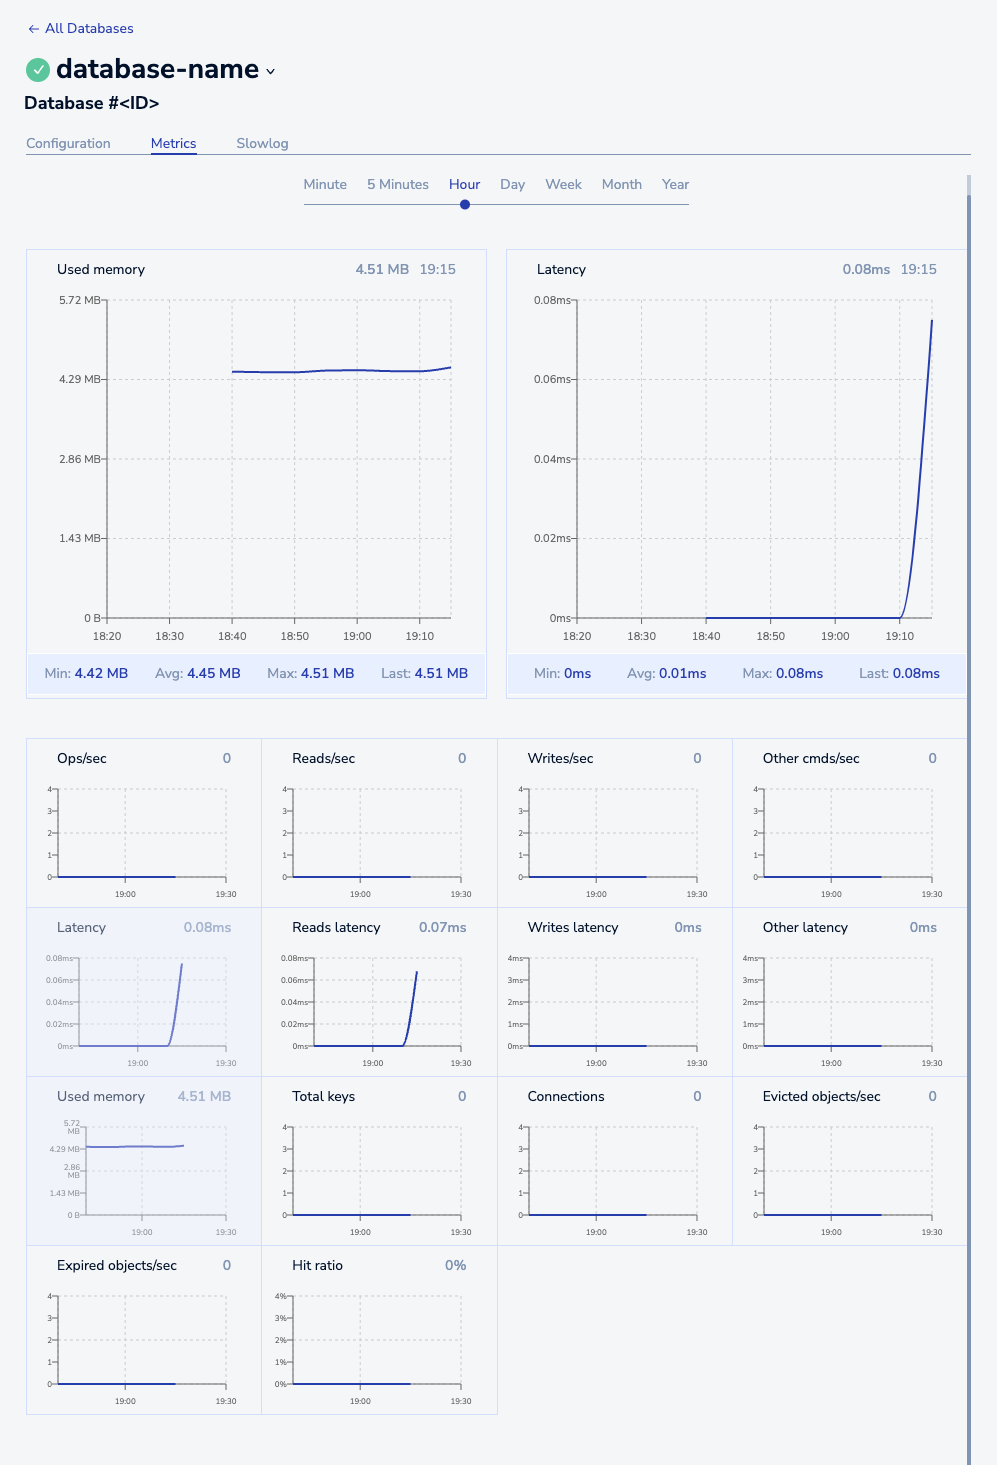
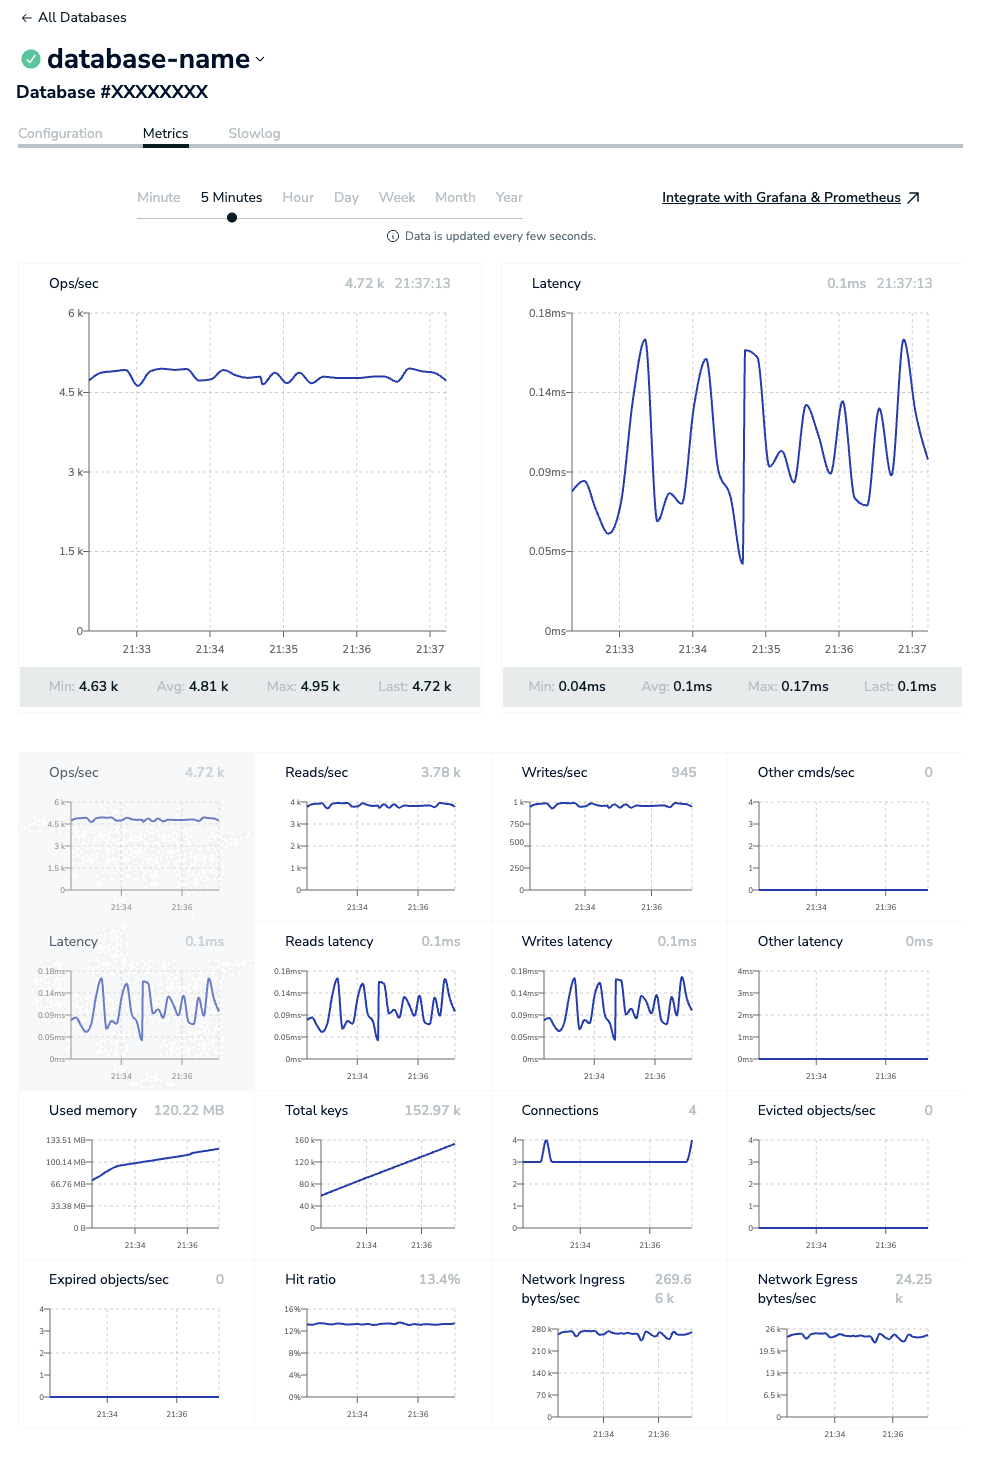
Monitor

diff --git a/content/operate/rc/databases/monitor-performance.md b/content/operate/rc/databases/monitor-performance.md
@@ -34,7 +34,7 @@ When you use the mouse to point to a smaller graph, three things appear:
 - A promotion icon pointing right
 - A summary panel showing the minimum, average, maximum, and most recent values displayed in the graph.
 
-{{<image filename="images/rc/metrics-promote-graphs.png" width="50%" alt="Promoting graphs to primary positions" >}}
+{{<image filename="images/rc/metrics-promote-graphs.png" width="300px" alt="Promoting graphs to primary positions" >}}
 
 Use the promotion icons to promote the smaller graph to one of the primary positions. The left icon promotes the smaller graph to the left position and the right icon promotes the smaller graph to the right position.
 
@@ -58,6 +58,8 @@ Several metric graphs are available:
 | [Evicted objects/sec]({{< relref "/operate/rs/references/metrics/database-operations#evicted-objectssec" >}}) | Number of objects evicted from the database per second. |
 | [Expired objects/sec]({{< relref "/operate/rs/references/metrics/database-operations#expired-objectssec" >}}) | Number of expired objects per second. An expired object is an object with expired TTL that was deleted from the database. |
 | [Hit ratio]({{< relref "/operate/rs/references/metrics/database-operations#hit-ratio" >}}) | Percent of operations on existing keys out of the total number database operations |
+| Network Ingress bytes/sec | Amount of traffic in bytes per second entering the database network |
+| Network Egress bytes/sec | Amount of traffic in bytes per second exiting the database network |
 
 For more detailed analysis, consider using [Redis Insight]({{< relref "/develop/tools/insight" >}}) or [Prometheus and Grafana]({{< relref "/integrate/prometheus-with-redis-cloud/" >}}).
 
